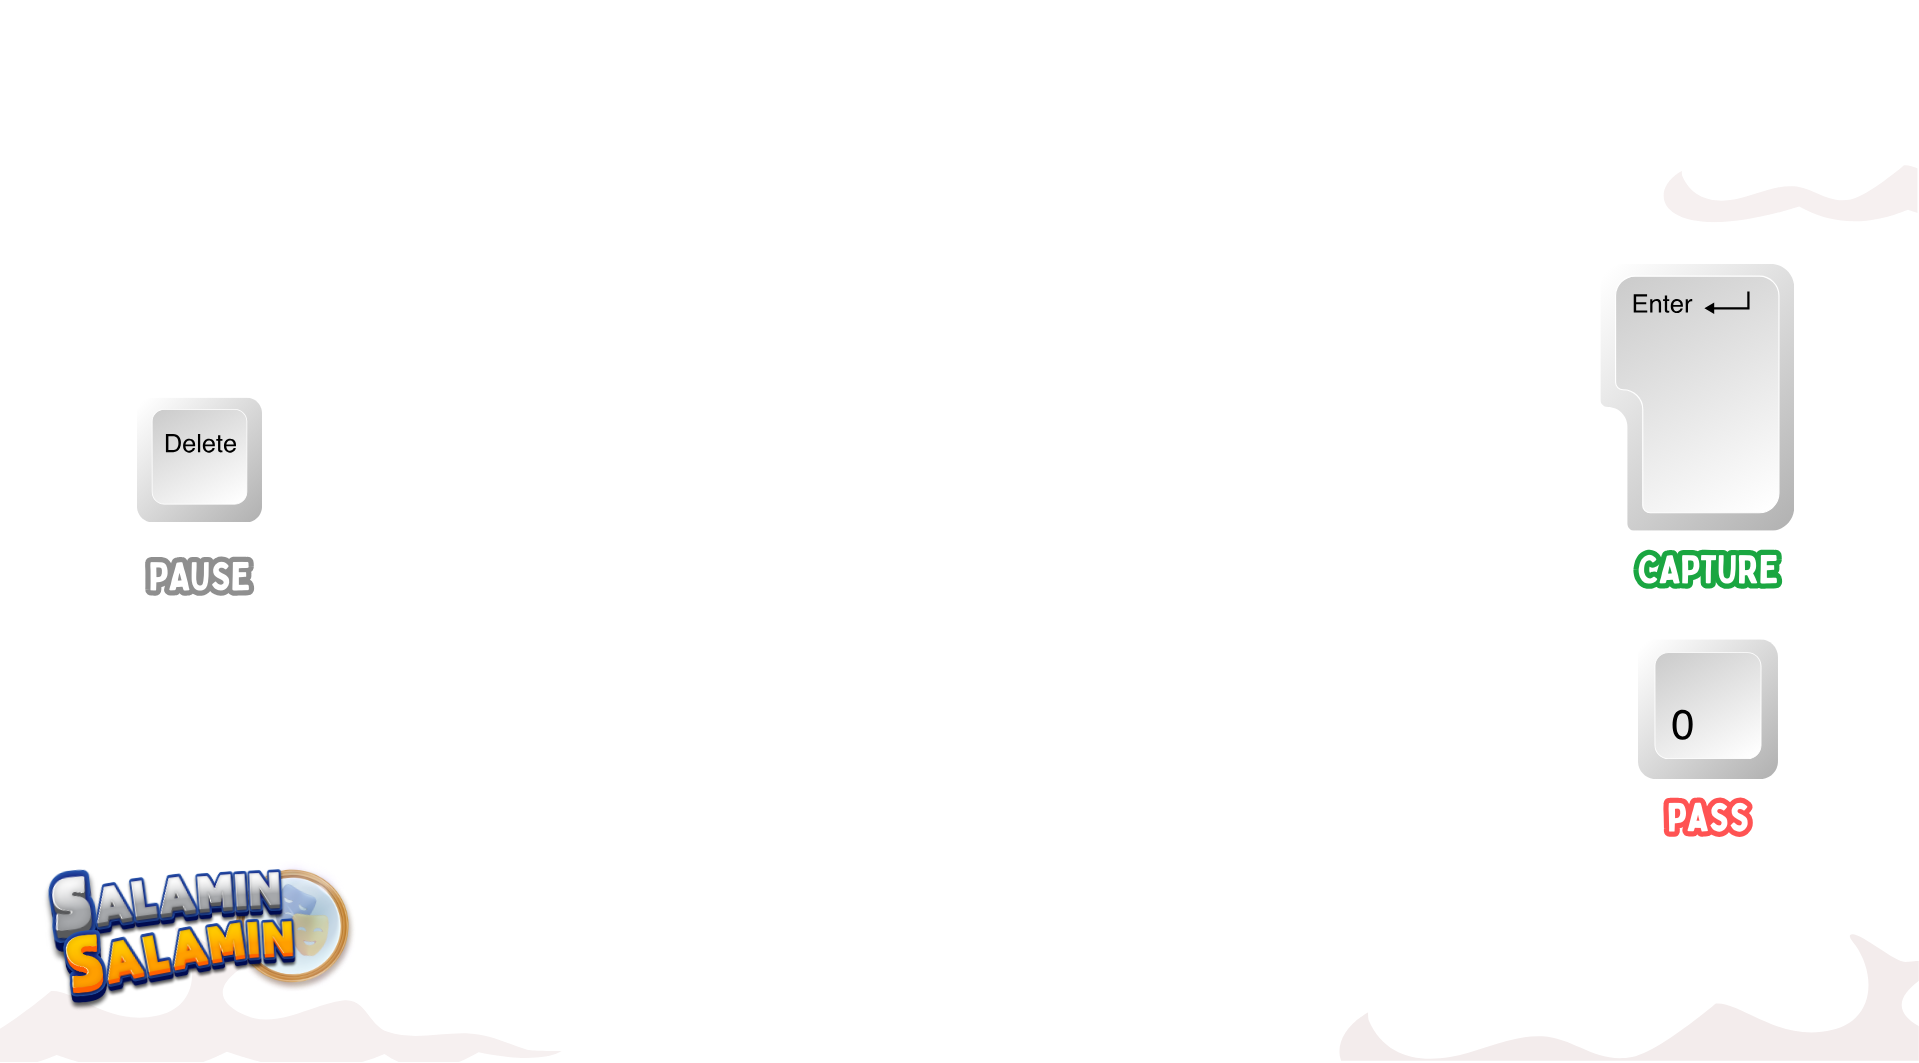
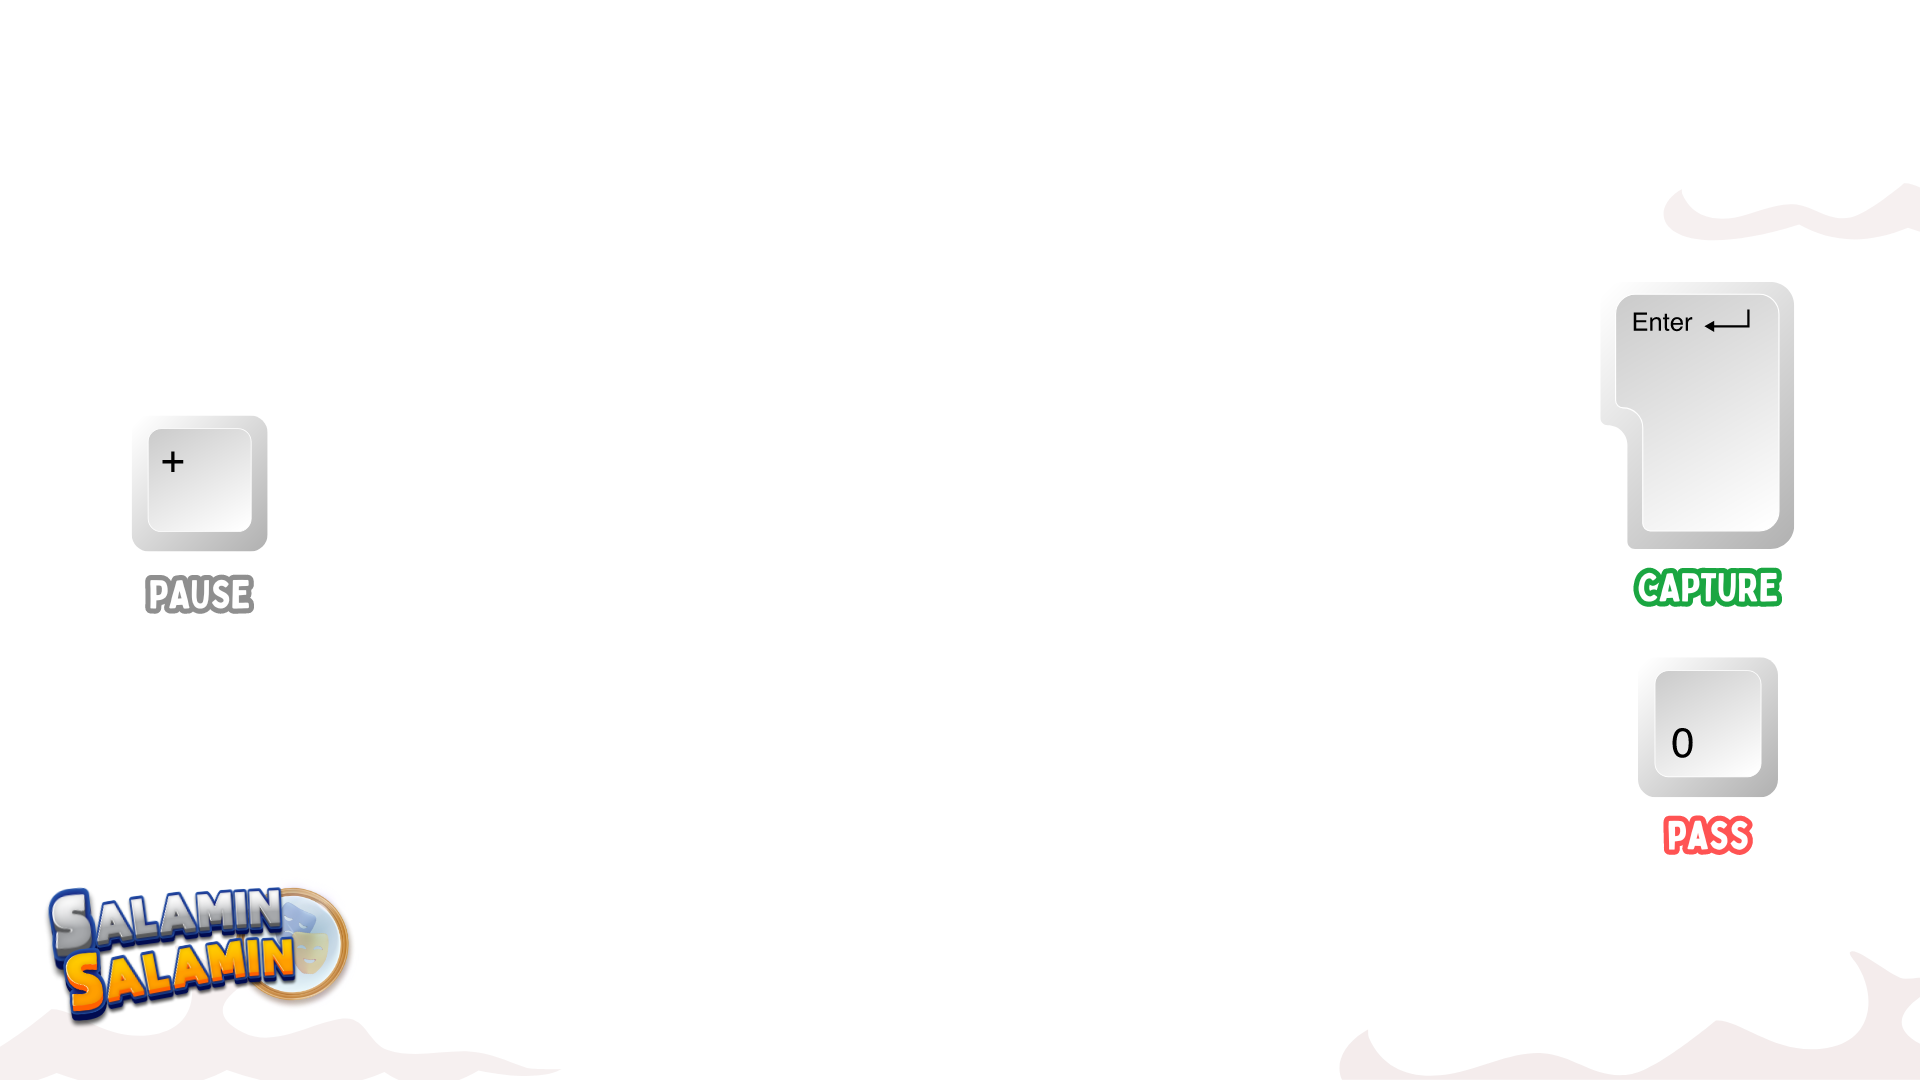
ui updates and optimizations i think

diff --git a/src/pages/Home.js b/src/pages/Home.js
@@ -66,17 +66,19 @@ export default function Home({setImageData}) {
 
     // timer
     useEffect(() => {
-      if(!hasStarted || isPaused){
-          return;
+      let timer;
+      if (hasStarted && !isPaused) {
+        timer = setInterval(() => {
+          setSeconds(prev => prev - 1);
+        }, 1000);
       }
-      if(seconds < 0){
-          navigate('/over', { state: { score: score } })
+    
+      if (seconds < 0) {
+        navigate('/over', { state: { score } });
+        clearInterval(timer);
       }
-      else{
-          setTimeout(() => {
-          setSeconds((seconds) => seconds - 1);
-          }, 1000);
-      }
+    
+      return () => clearInterval(timer);
     }, [hasStarted, seconds, isPaused]);
   
 
@@ -116,46 +118,54 @@ export default function Home({setImageData}) {
         }
     }, [])
 
+    const setEmotionDebounced = (newEmotion) => {
+      if (newEmotion !== emotionRef.current) {
+        setEmotion(newEmotion);
+        emotionRef.current = newEmotion;
+      }
+    };
   
     // To detect emotions
     const handlePlay = (video) => {
       faceapi.matchDimensions(videoCanvasRef.current, videoSize);
-      setInterval(async () => {
-        const detections = await faceapi.detectAllFaces(video, new faceapi.TinyFaceDetectorOptions()).withFaceExpressions();
-        if(detections.length === 0){
-          setEmotion("neutral")
-          setBorderColor(null)
-          return;
-        }
+      const detectFace = async () => {
+          const detections = await faceapi.detectAllFaces(video, new faceapi.TinyFaceDetectorOptions()).withFaceExpressions();
+          if (detections.length === 0) {
+            setEmotionDebounced('neutral');
+            setBorderColor('white');
+            return;
+          }
+      
+          const resizedDetections = faceapi.resizeResults(detections, videoSize);
+          const maxExpression = Object.entries(resizedDetections[0].expressions).reduce((max, [expression, confidence]) => {
+            return confidence > max.confidence ? { expression, confidence } : max;
+          }, { expression: null, confidence: 0 });
         
-        const resizedDetections = faceapi.resizeResults(detections, videoSize);
-        const maxExpression = Object.entries(resizedDetections[0].expressions).reduce((max, [expression, confidence]) => {
-          return confidence > max.confidence ? { expression, confidence } : max;
-        }, { expression: null, confidence: 0 });
+          setEmotionDebounced(maxExpression.expression);
         
-        setEmotion(maxExpression.expression);
-        
-        const context = videoCanvasRef.current.getContext('2d');
-        context.clearRect(0, 0, videoCanvasRef.current.width, videoCanvasRef.current.height);
-        faceapi.draw.drawDetections(videoCanvasRef.current, resizedDetections);
-        faceapi.draw.drawFaceExpressions(videoCanvasRef.current, resizedDetections);
-      }, 100);
-    }
+          const context = videoCanvasRef.current.getContext('2d');
+          context.clearRect(0, 0, videoCanvasRef.current.width, videoCanvasRef.current.height);
+          faceapi.draw.drawDetections(videoCanvasRef.current, resizedDetections);
+          faceapi.draw.drawFaceExpressions(videoCanvasRef.current, resizedDetections);
+      };
+        const interval = setInterval(detectFace, 100);
+        return () => clearInterval(interval);
+    };
 
     const handlePassBtn = () => {
-      setHasStarted(true);
+      if(!hasStartedRef.current) setHasStarted(true);
       setEmotionToCopy(getRandomEmotion(lastIdx));
     }
 
     const handleEnter = () => {
-      setHasStarted(true);
-      takeScreenshot();
+      if(!hasStarted.current) setHasStarted(true);
       if(emotionToCopyRef.current === emotionRef.current) {
         setScore((score) => score + 1)
         setBorderColor("green");
       } else{
         setBorderColor("red");
       }
+      takeScreenshot();
     }
 
     const handleKey = (event) => {
@@ -163,19 +173,20 @@ export default function Home({setImageData}) {
         if (event.code === 'Enter' || event.code === 'NumpadEnter') {
           handleEnter();
           setEmotionToCopy(getRandomEmotion(lastIdx));
-          setTimeout(() => {
+          const timeout = setTimeout(() => {
             setBorderColor("white");
-          }, 1000)
+          }, 800)
+          return () => clearTimeout(timeout);
         }
         else if(event.code === 'Digit0' || event.code === 'Numpad0') {
           handlePassBtn();
         }
-        else if(event.code === 'Delete'){
+        else if(event.code === 'NumpadAdd'){
           setIsPaused(true);
         }
       }
       else{
-        if(event.code === 'Digit1' || event.code === 'Numpad1' || event.code === 'Delete') {
+        if(event.code === 'Digit1' || event.code === 'Numpad1' || event.code === 'NumpadAdd') {
           setIsPaused(false);
         }
         else if(event.code === 'Digit2' || event.code === 'Numpad2') {
@@ -211,7 +222,7 @@ export default function Home({setImageData}) {
     const handleRestart = () => {
       setHasStarted(false);
       setIsPaused(false);
-      setTimeout(() => setSeconds(time), 100); // prevent decrement from last game
+      setSeconds(time);
       setEmotionToCopy(getRandomEmotion(lastIdx));
       setImageData([]);
     }
@@ -220,7 +231,6 @@ export default function Home({setImageData}) {
       <div className={`home-app ${emotion}`}>
         <div className='design-grid'></div>
         <div className='design-underlay'></div>
-        
         <div className='app-header'> 
           <div className='timer'>
             {seconds} 

diff --git a/src/css/App.css b/src/css/App.css
@@ -50,7 +50,7 @@
 	background-image: url('../../public/images/game-bg-underlay.png');
 	background-position: center;
 	background-size: none;
-	z-index: 1;
+	z-index: 0;
 }
 
 /* HEADER */
@@ -60,6 +60,8 @@
 	justify-content: space-around;
 	align-items: center;
 	padding-top: 5vh;
+	position: relative;
+	z-index: 0;
 }
 
 .instruction {
@@ -67,30 +69,31 @@
 	flex-direction: column;
 	justify-content: center;
 	align-items: center;
-	padding-left: 20vw;
+	position: absolute;
+	margin-top: 8vh; 
 }
 
 .instruction-header{
-	width: 50%;
+	width: 25%;
 }
 
 .emotion {
 	text-align: center;
 	padding-top: 1vh;
-	font-family: "Freeman", sans-serif;
-	font-size: 35px;
+	font-family: "Lilita One", sans-serif;
+	font-size: 45px;
 	color: white;
 	font-weight: 700;
     -webkit-text-stroke: 2px #124FAF;
 }
 
 .timer {
-	padding-left: 8vw;
-	font-family: "Freeman", sans-serif;
-	font-weight: 700;
+	font-family: "Lilita One", sans-serif;
+	font-weight: 400;
 	color: white;
-	font-size: 100px;
-	-webkit-text-stroke: 3px #124FAF;
+	font-size: 120px;	
+	-webkit-text-stroke: 8px #124FAF;
+	margin-right: 80vw;
 }
 
 .points {
@@ -98,14 +101,15 @@
     font-weight: 900;
     font-style: normal;
 	text-align: right;
-	padding-right: 6vw;
+	padding-bottom: 5vh;
     color: #FAAE2C;
     -webkit-text-stroke: 3px #124FAF;
-	font-size: 50px;
-	z-index: 3;
+	font-size: 58px;
+	z-index: 3; 
+	position: absolute;
 }
 .points img {
-	width: 30%;
+	width: 13%;
 }
 
 .emoji {
@@ -131,7 +135,7 @@
 	align-items: center;
 	justify-content: center;
 	max-width: 100%;
-	margin-top: 3vh;
+	margin-top: 11vh;
 	margin-right: 5vh;
 }
 

diff --git a/src/css/index.css b/src/css/index.css
@@ -1,5 +1,5 @@
 @import url('https://fonts.googleapis.com/css2?family=Poppins:ital,wght@0,100;0,200;0,300;0,400;0,500;0,600;0,700;0,800;0,900;1,100;1,200;1,300;1,400;1,500;1,600;1,700;1,800;1,900&family=Ubuntu:ital,wght@0,300;0,400;0,500;0,700;1,300;1,400;1,500;1,700&display=swap');
-@import url('https://fonts.googleapis.com/css2?family=Freeman&display=swap');
+@import url('https://fonts.googleapis.com/css2?family=Lilita+One&display=swap');
 
 * {
   margin: 0;

diff --git a/src/pages/Over.js b/src/pages/Over.js
@@ -5,7 +5,6 @@ import html2canvas from 'html2canvas';
 
 
 export default function Over({imageData}) {
-    console.log(imageData);
     const navigate = useNavigate();
     let location = useLocation();
     const score = location.state === null ? 0 : location.state.score

diff --git a/src/css/landing.css b/src/css/landing.css
@@ -43,7 +43,7 @@
     border: 4px solid rgb(73, 132, 208);
     border-radius: 25px;
     cursor: pointer;
-    font-family: "Freeman", sans-serif;
+    font-family: "Lilita One", sans-serif;
   }
 
   .play-button > a {
